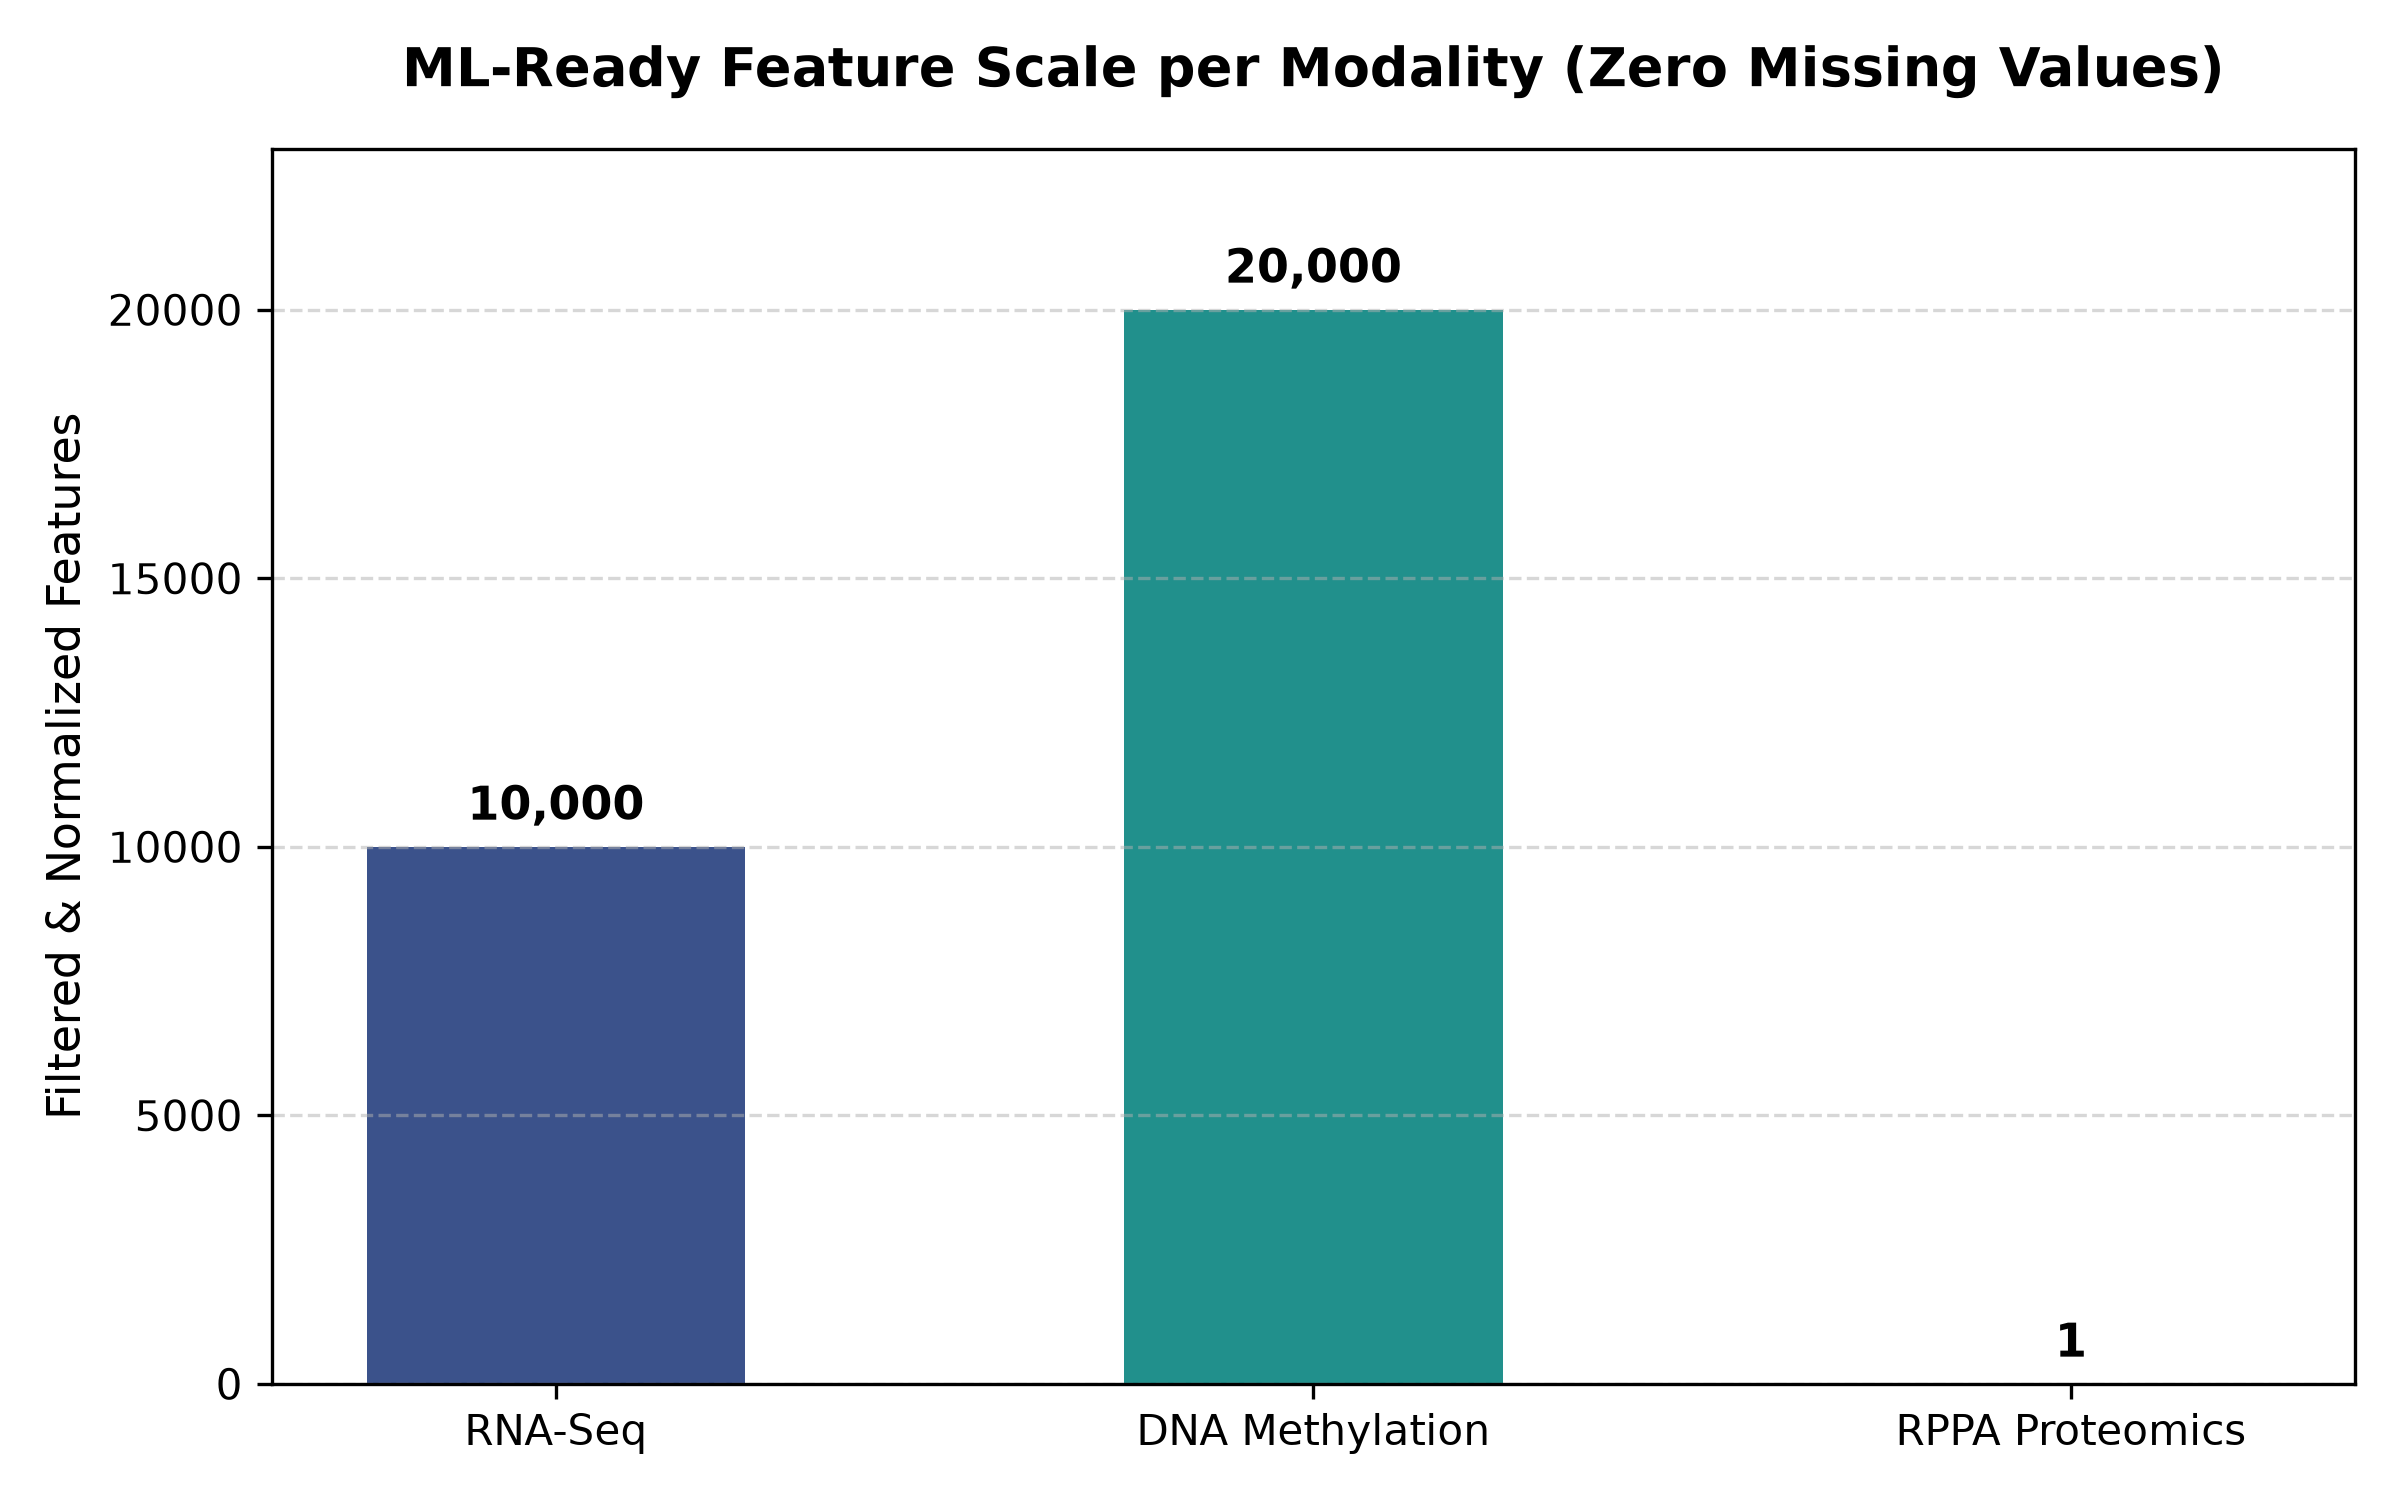
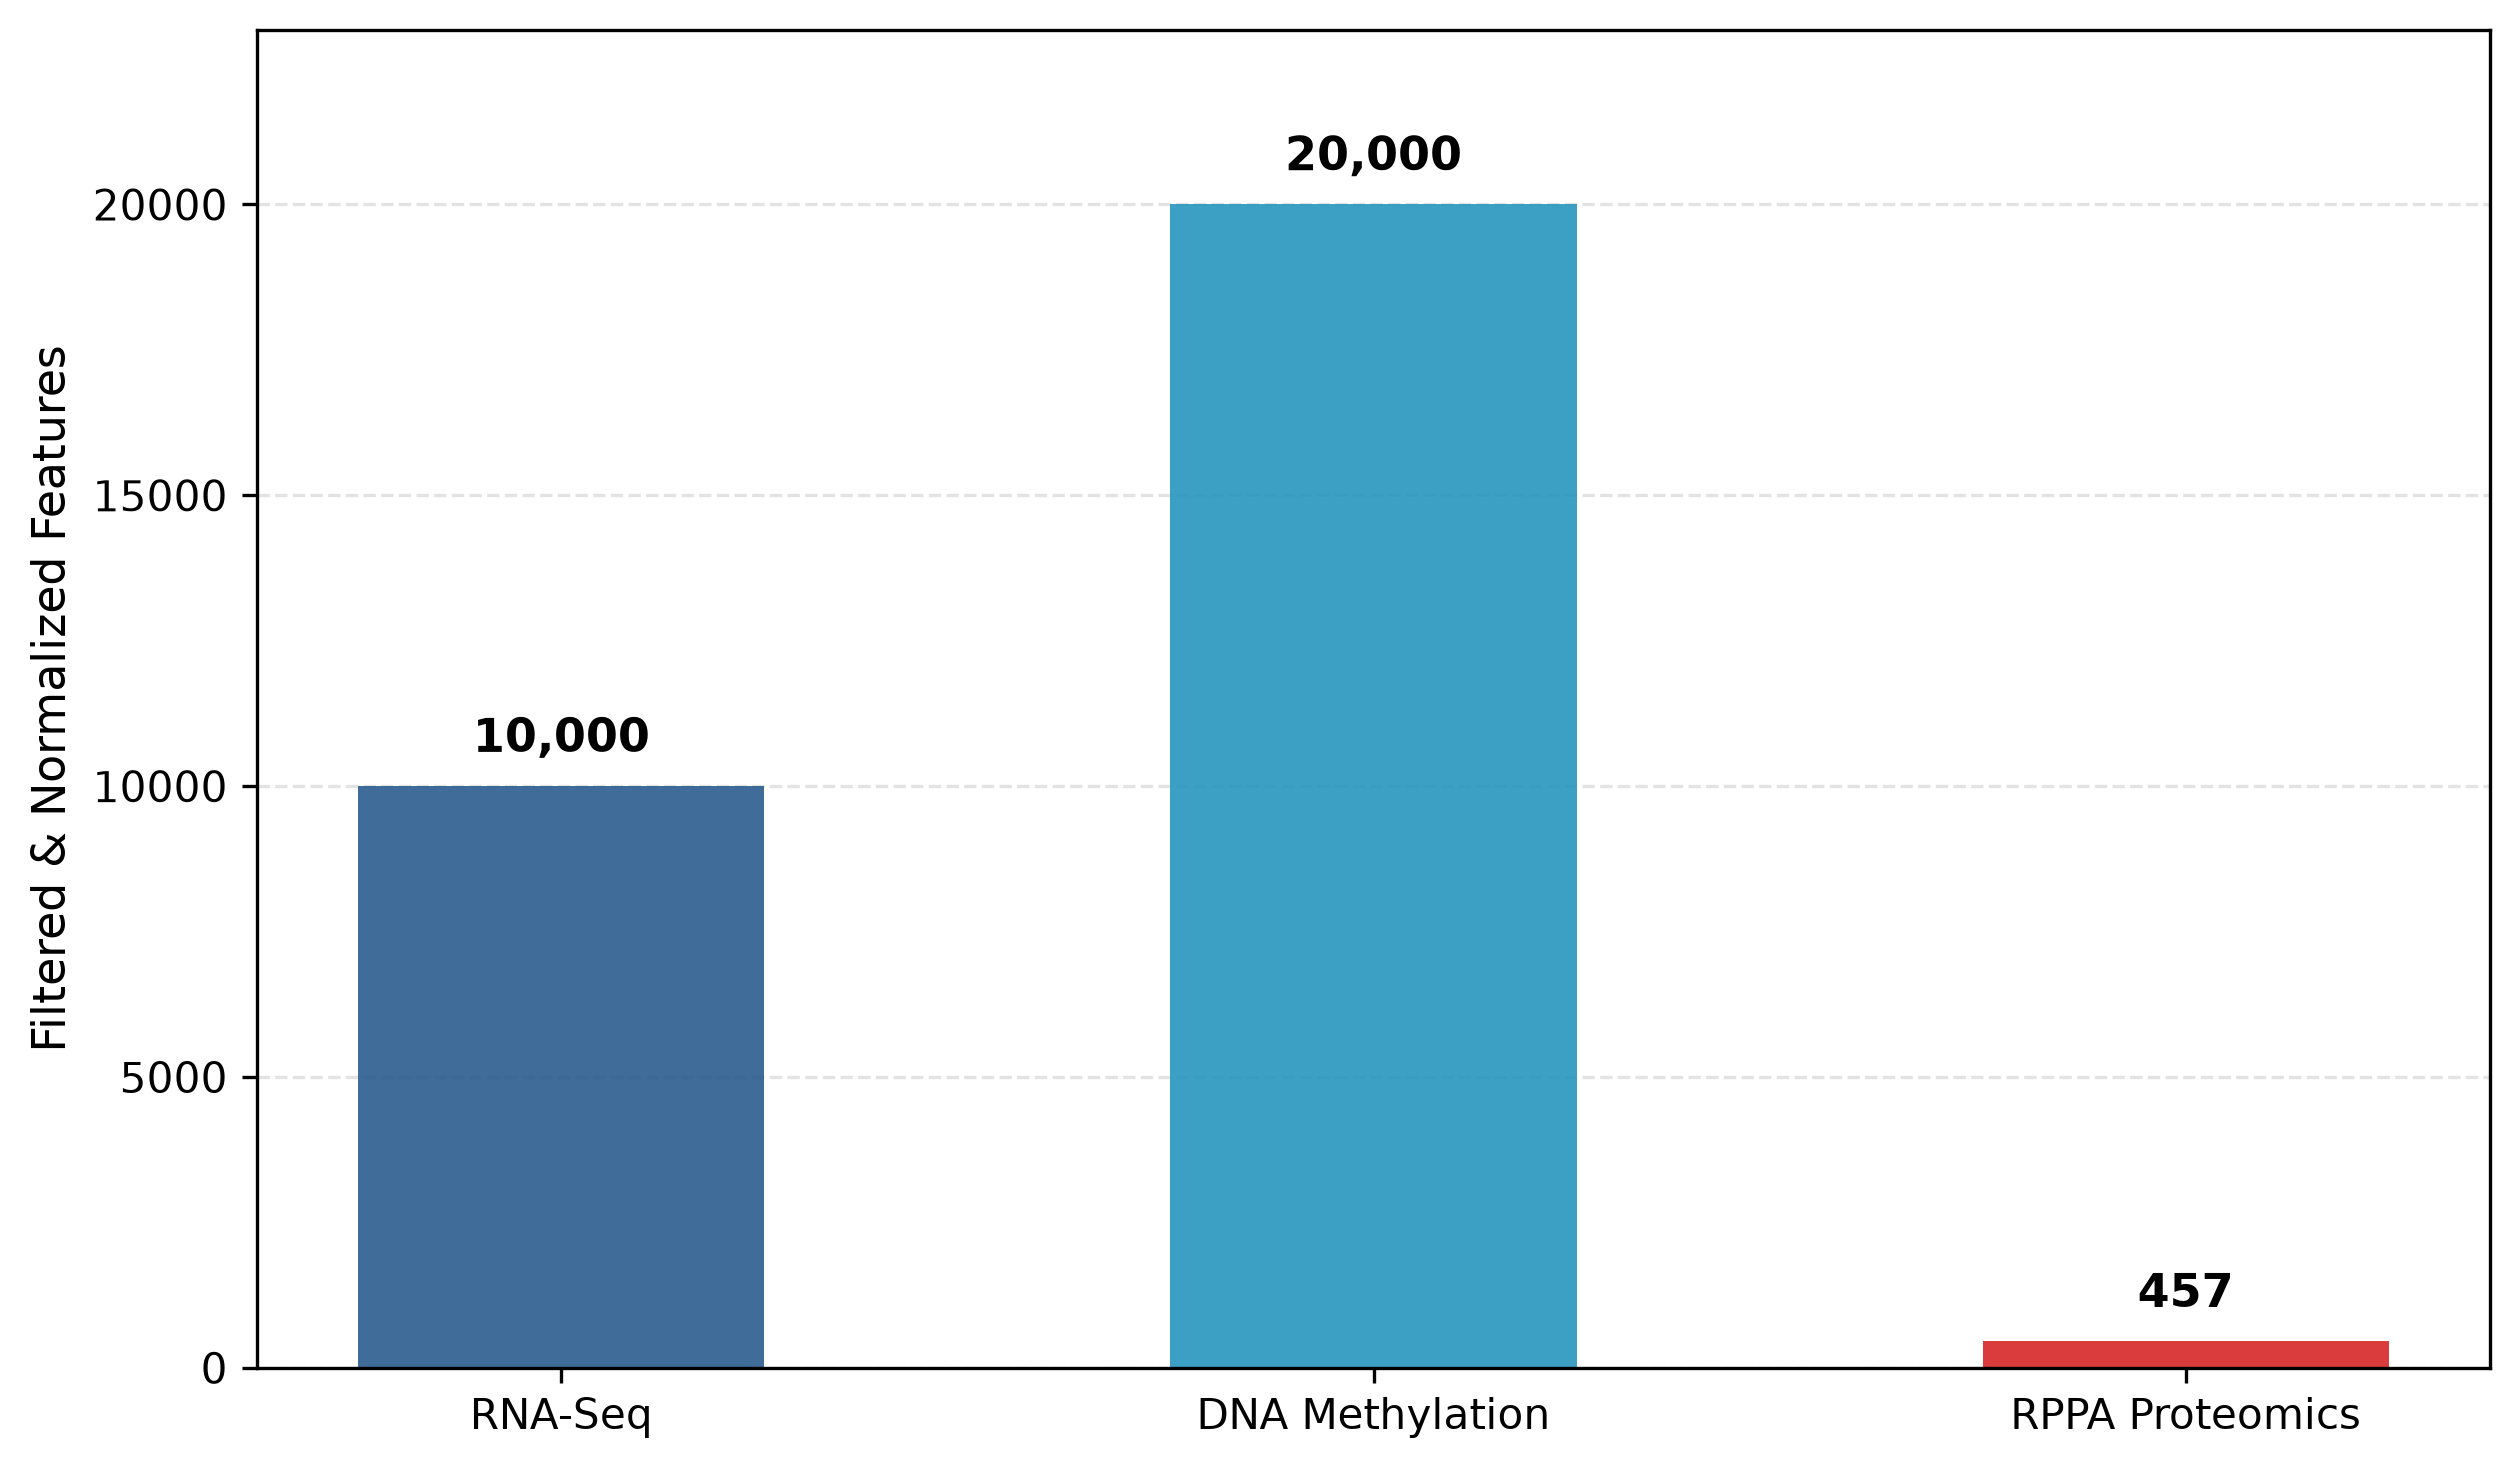
Update feature scale bar plot to reflect 457 RPPA protein markers

Changed region(s): [[0.0, 0.0919, 1.0, 0.9803], [0.0938, 0.0, 0.9688, 0.0613]]

diff --git a/src/plot_feature_scale.py b/src/plot_feature_scale.py
@@ -1,0 +1,38 @@
+import os
+import matplotlib
+matplotlib.use('Agg')
+import matplotlib.pyplot as plt
+
+modalities = ['RNA-Seq', 'DNA Methylation', 'RPPA Proteomics']
+counts = [10000, 20000, 457]  # 457 preprocessed RPPA protein markers
+
+fig, ax = plt.subplots(figsize=(8.5, 5))
+colors = ['#2b5c8f', '#2596be', '#d62728']
+
+bars = ax.bar(modalities, counts, color=colors, width=0.5, alpha=0.9)
+
+for bar in bars:
+    yval = bar.get_height()
+    ax.text(
+        bar.get_x() + bar.get_width() / 2.0,
+        yval + 400,
+        f'{yval:,}',
+        ha='center',
+        va='bottom',
+        fontweight='bold',
+        fontsize=11
+    )
+
+ax.set_ylabel('Filtered & Normalized Features', fontsize=11)
+ax.set_ylim(0, 23000)
+ax.grid(True, axis='y', linestyle='--', alpha=0.35)
+ax.set_axisbelow(True)
+
+plt.tight_layout()
+
+os.makedirs('results/figures', exist_ok=True)
+plt.savefig('results/figures/plot_b_updated_feature_scale.png', dpi=300, bbox_inches='tight')
+plt.savefig('plot_b_updated_feature_scale.png', dpi=300, bbox_inches='tight')
+plt.close()
+
+print("SUCCESS: Updated plot_b_updated_feature_scale.png!")
